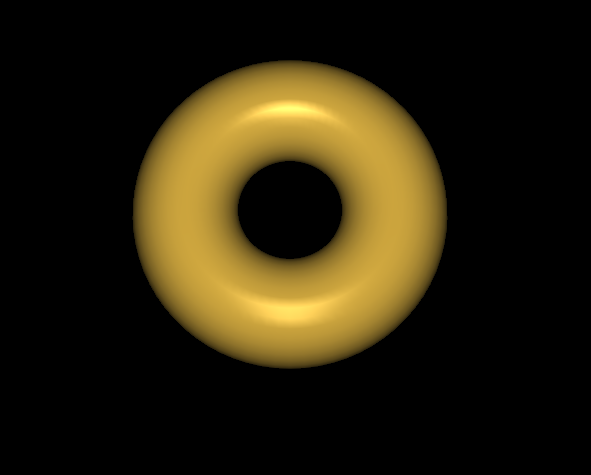
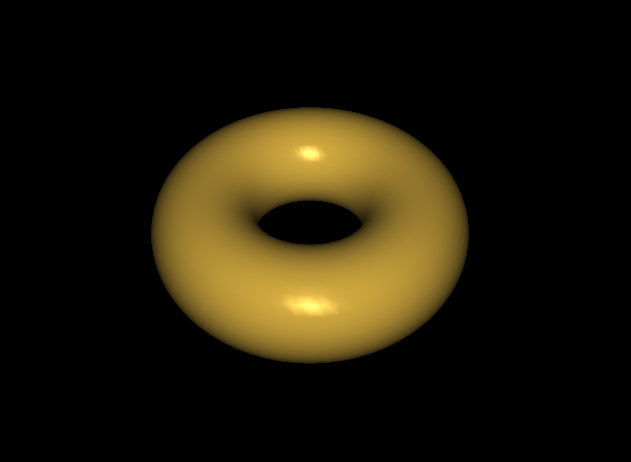
program_7_3

diff --git a/src/program_7_1.cpp b/src/program_7_1.cpp
@@ -136,12 +136,12 @@ void display(GLFWwindow *window, double currentTime) {
     vMat = glm::translate(glm::mat4(1.0f), glm::vec3(-cameraX, -cameraY, -cameraZ));
 
     // Aplicar la rotación de 45 grados alrededor del eje Y
-    float angle = glm::radians(45.0f);
-    mMat = glm::rotate(glm::mat4(1.0f), (float)currentTime, glm::vec3(1.0f, 0.0f, 0.0f));
-    //mMat = glm::rotate(glm::mat4(1.0f), angle, glm::vec3(1.0f, 0.0f, 0.0f));
+    float angle = glm::radians(-45.0f);
+    //mMat = glm::rotate(glm::mat4(1.0f), (float)currentTime, glm::vec3(1.0f, 0.0f, 0.0f));
+    mMat = glm::rotate(glm::mat4(1.0f), angle, glm::vec3(1.0f, 0.0f, 0.0f));
     
-    currentLightPos = glm::vec3(initialLightLoc.x * cos(currentTime), initialLightLoc.y, initialLightLoc.z * sin(currentTime));
-    //currentLightPos = glm::vec3(initialLightLoc.x, initialLightLoc.y, initialLightLoc.z);
+    //currentLightPos = glm::vec3(initialLightLoc.x * cos(currentTime), initialLightLoc.y, initialLightLoc.z * sin(currentTime));
+    currentLightPos = glm::vec3(initialLightLoc.x, initialLightLoc.y, initialLightLoc.z);
     installLights(vMat);
     
     mvMat = vMat * mMat;

diff --git a/src/program_7_3.cpp b/src/program_7_3.cpp
@@ -104,7 +104,7 @@ void setupVertices() {
 
 void init(GLFWwindow *window) {
     
-    renderingProgram = Utils::createShaderProgram("vertex_shader72.glsl", "fragment_shader72.glsl");
+    renderingProgram = Utils::createShaderProgram("vertex_shader73.glsl", "fragment_shader73.glsl");
 
     if (Utils::checkOpenGLError()) {
         std::cerr << "ERROR: Could not create the shader program" << std::endl;
@@ -182,7 +182,7 @@ int main(void) {
     glfwWindowHint(GLFW_OPENGL_PROFILE, GLFW_OPENGL_CORE_PROFILE);
     glfwWindowHint(GLFW_OPENGL_FORWARD_COMPAT, GL_TRUE);
 
-    GLFWwindow* window = glfwCreateWindow(1080, 720, "program_7_1", NULL, NULL);
+    GLFWwindow* window = glfwCreateWindow(1080, 720, "program_7_3", NULL, NULL);
     if (!window) {
         std::cerr << "ERROR: GLFW window could not be created" << std::endl;
         glfwTerminate();

diff --git a/README.md b/README.md
@@ -87,6 +87,7 @@ This will build the project and compile all the programs located inside the src 
       <img src="gallery/program_7_2.png" alt="program_7_2" style="width: 500px;"/>
     </td>
     <td>
+      <img src="gallery/program_7_3.png" alt="program_7_2" style="width: 500px;"/>
     </td>    
   </tr>
 </table>
